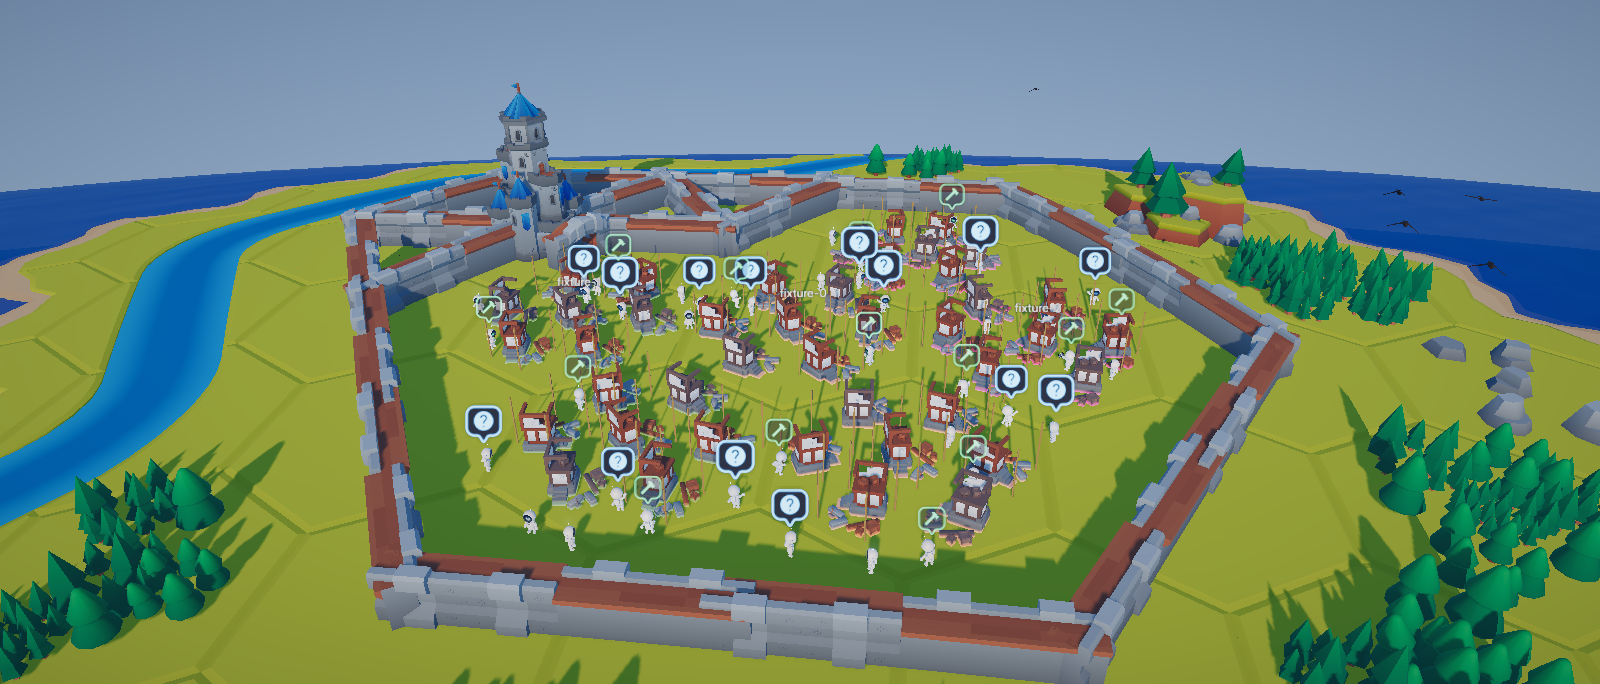
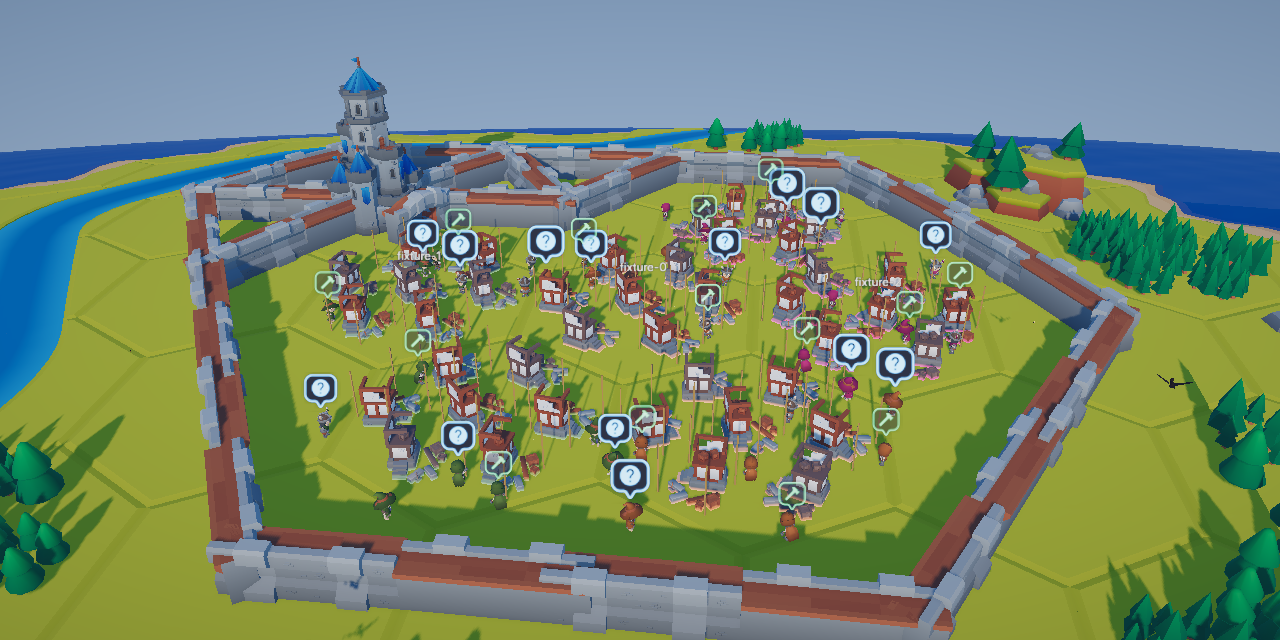
README: an animated Medieval colony at the top, and a social preview image
- docs/colony.gif: six seconds of the Medieval colony at work, recorded
  from tools/visual-check.html (made-up threads only), 1.3 MB.
- docs/social-preview.png: 1280x640, for Settings -> Social preview.
- docs/colony-medieval.png retaken: the old one showed astronauts,
  because the check page never loaded the skeletons. It does now, like
  the app, so a Medieval check shows the real crew.
- The Terra screenshot moves to the planets bullet.

diff --git a/tools/visual-check.js b/tools/visual-check.js
@@ -4,6 +4,7 @@ import { Settings, PRESETS } from '../src/core/settings.js'
 import { Colony } from '../src/game/colony.js'
 import { loadKit } from '../src/world/kit.js'
 import { loadCrew, crewRig } from '../src/agents/crew.js'
+import { loadSkeletons } from '../src/agents/skeletons.js'
 import { installWorldCurve, setCurveView, CURVE_FULL } from '../src/core/curve.js'
 import { PLANETS, mulberry } from '../src/world/planet.js'
 
@@ -26,6 +27,8 @@ try {
   const engine = new Engine(settings).mount(document.querySelector('#scene'))
   const colony = new Colony(engine.scene, settings, engine.camera, engine.renderer)
   colony.astronauts.setRig(crewRig())
+  // As the page does: a skeleton planet's crew are the KayKit skeletons, not the astronauts.
+  colony.astronauts.setSkeletons(await loadSkeletons(crewRig()))
   const threads = Array.from({ length: 42 }, (_, i) => ({
     id: `visual-${i}`, project: `fixture-${Math.floor(i / 14)}`, title: `Fixture ${i}`,
     createdAt: i, lastActivityAt: Date.now(), sizeBytes: 100000, unread: i % 3 === 0, running: i % 3 === 1,

diff --git a/README.md b/README.md
@@ -5,7 +5,7 @@ out of the ship, claims a plot for its repo and builds while it works. Chat with
 thread from the map, approve its tool calls, and run one plan across many repos at once while
 an orchestrator keeps you posted.
 
-![A colony on Terra: three repos, each in its own colour, with their bots and buildings](docs/colony-terra.png)
+![A Medieval colony at work: skeleton crews in their repo's colour, buildings rising, status badges overhead](docs/colony.gif)
 
 A fork of [**Bot Crossing**](https://github.com/jarrenrocks/bot-crossing) by Jarren Rocks
 ([@jarrenrocks](https://github.com/jarrenrocks)), which draws the colony, the bots and the
@@ -69,6 +69,9 @@ harness adapters. This fork adds chat, thread control and multi-repo orchestrati
 - 🌱 **Subagents** are smaller bots, in teal.
 - 🌱 **Twelve planets** — press `Tab` to change planet: Luna, Mars, Terra, Dune, Canopy,
   Shoreline, Archipelago, Frost, Aerie, Cinder, Harvest and Blossom.
+
+  ![Terra, one of the original planets](docs/colony-terra.png)
+
 - ✨ **The Medieval planet** — a KayKit hex island with a road, a river and a castle. The crew
   are skeletons whose cloth wears their repo's colour, subagents are Minions, and a
   long-running thread gets a church, a windmill or a great tower.
